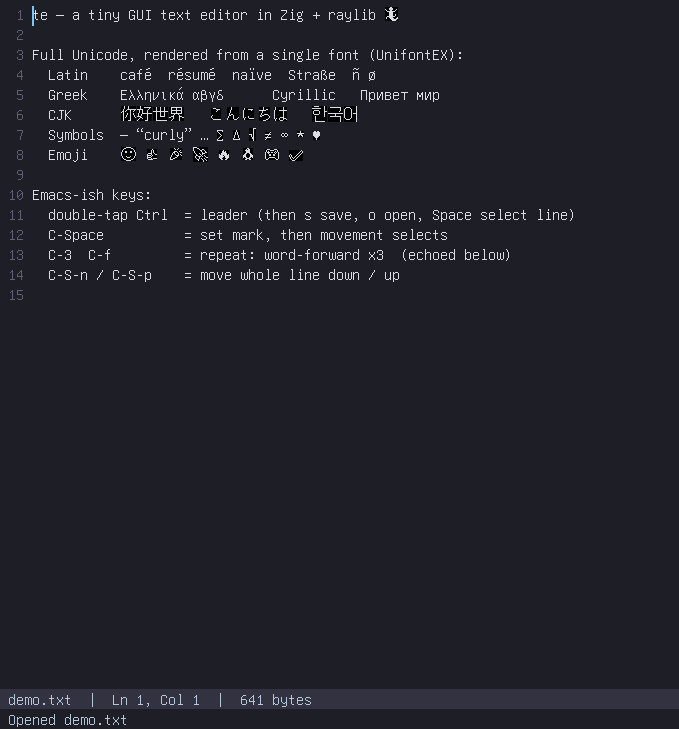
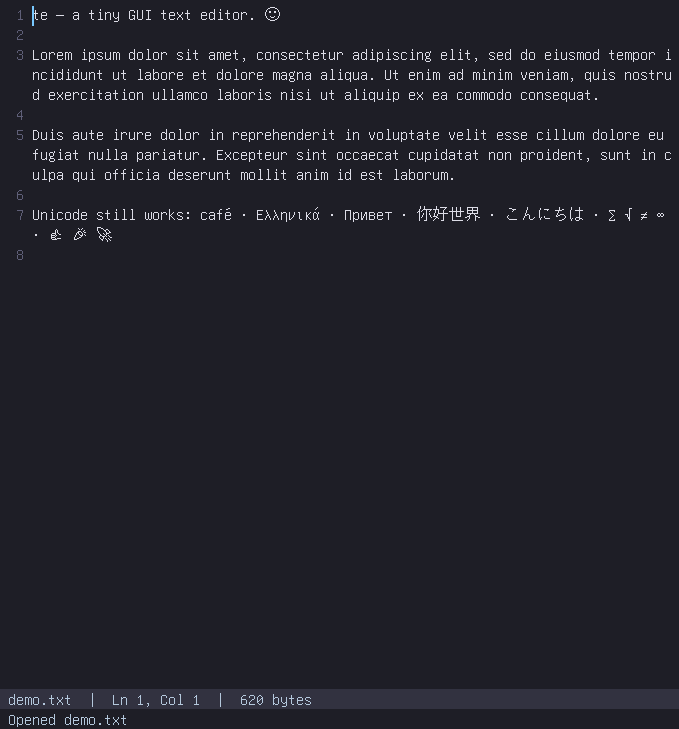
Fix black box behind emoji/symbols; repeat typed chars; docs
- glyphs.zig: fallback glyphs from LoadFontData are GRAYSCALE, which
  uploads opaque and drew a black box behind each emoji/CJK/symbol.
  Repack them as GRAY_ALPHA (white, coverage-in-alpha) like the atlas,
  so the background is transparent and the tint colors the glyph.
- Ctrl-<digit> now repeats a typed character too (Ctrl-3 w -> www),
  not just bound actions.
- binding.zig: default to Emacs-only navigation (plain arrow / Home /
  End / PageUp keys commented out; Ctrl-b/f/p/n etc. remain).
- README: update the movement table and repeat-count note; regenerate
  the screenshot with lorem ipsum showing the corrected glyph colors.

diff --git a/README.md b/README.md
@@ -17,17 +17,17 @@ Emacs-flavored. The **leader** is a **double-tap of Ctrl**; a **triple-tap**
 jumps straight to the command prompt. Every action you run is echoed on the
 bottom line (e.g. `move left x3`).
 
-**Movement**
+**Movement** (Emacs-style; the plain arrow/Home/End/PageUp keys are off by
+default — re-enable them in `src/binding.zig`)
 
 | Key | Action |
 | --- | --- |
-| Arrows / Home / End | Move caret / line start / line end |
 | Ctrl+B / F / P / N | Left / right / up / down |
 | Ctrl+Shift+A / E | Line start / end |
 | Ctrl+W / Ctrl+Shift+W | Next / previous word |
 | Ctrl+D | End of word |
-| PageUp/Down, Ctrl+J / Ctrl+Shift+J | Screen up / down |
-| Ctrl+`<digit>` | Repeat the next action N times |
+| Ctrl+J / Ctrl+Shift+J | Screen up / down |
+| Ctrl+`<digit>` | Repeat the next action **or typed character** N times (`Ctrl+3` `w` → `www`) |
 
 **Selection & clipboard**
 